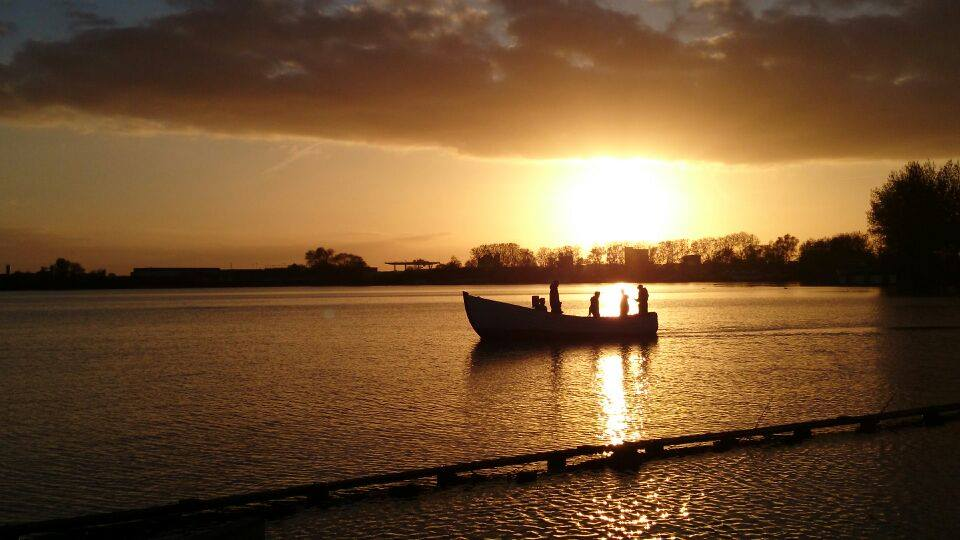
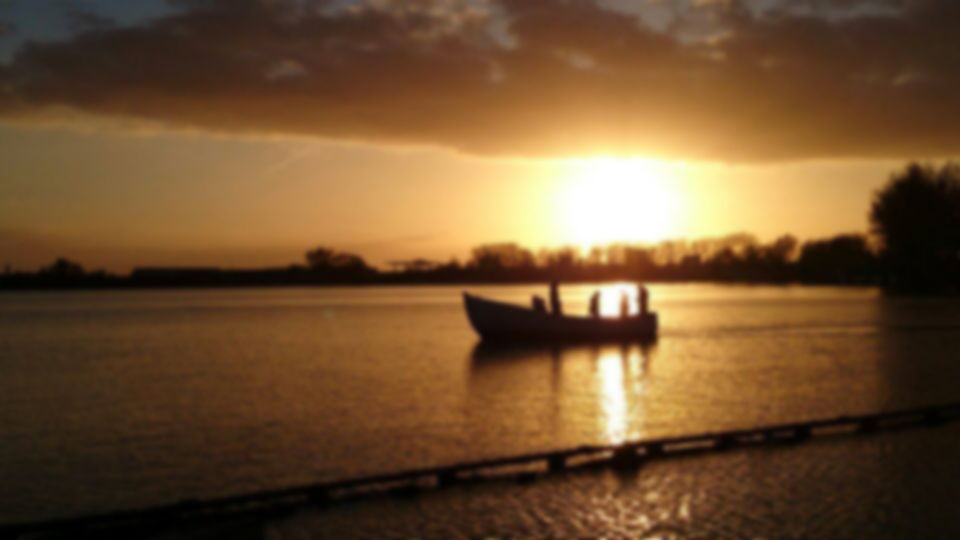
Fix background issues once and for all.

diff --git a/assets/js/news.js b/assets/js/news.js
@@ -87,6 +87,7 @@ $(".news").on("click", ".news-item", function() {
 });
 
 function expandNewsItem(post_id) {
+  window.scrollTo(0,0);
   var item = news[post_id];
   var arr = item.date.split(/[-T:+]/);
   var date = new Date(arr[0], arr[1]-1, arr[2]);
@@ -137,7 +138,7 @@ $(".expanded-news").on("click", ".news-close", function() {
 
 /* Apply special scrollbar only to desktops without touch. */
 if (!is_touch_device()) {
-  $("head").append('\
+  /*$("head").append('\
   <style>\
     ::-webkit-scrollbar {\
       width: 12px;\
@@ -147,15 +148,15 @@ if (!is_touch_device()) {
       background-color: #ff8b00;\
     }\
   </style>\
-  ');
+  ');*/
 }
 
 /* Horizontal scrolling for desktop. */
 $.getScript("/../assets/js/jquery.mousewheel.min.js", function() {
-  $(".news > .row").mousewheel(function(event, delta) {
+  /*$(".news > .row").mousewheel(function(event, delta) {
     if (!is_touch_device() && !(navigator.platform.toUpperCase().indexOf('MAC')>=0)) {
       this.scrollLeft -= (delta * 30);
       event.preventDefault();
     }
-  });
+  });*/
 });

diff --git a/_sass/theme.scss b/_sass/theme.scss
@@ -23,7 +23,7 @@ html, body {
 }
 
 body {
-  background-color: $background-color;
+  /*background-color: $background-color;*/
   position: relative;
   width: 100%;
 }
@@ -99,17 +99,8 @@ ul.dropdown-menu {
 }
 
 /* Background. */
-section#background {
-  position: absolute;
-  left: 0;
-  z-index: -1;
-  min-width: 100%;
-  min-height: 100%;
-  -webkit-filter: blur(5px);
-  -moz-filter: blur(5px);
-  -o-filter: blur(5px);
-  -ms-filter: blur(5px);
-  filter: blur(5px);
+html {
+  background-color: $brand-dark;
   background: url("../img/bg/main.jpg") no-repeat center center fixed;
   background-size: cover;
 }
@@ -293,13 +284,14 @@ section#background {
 }
 
 .expanded-news {
-  position: fixed;
+  position: absolute;
   top: 0;
   width: 100%;
-  height: 110%;
+  height: 100%;
   background-color: $brand-dark;
-  z-index: 9999;
+  z-index: 999999;
   overflow-y: scroll;
+  -webkit-overflow-scrolling: touch;
   font-family: "Raleway", "Open Sans", "Helvetica Neue", Helvetica, Arial, sans-serif;
 }
 

diff --git a/assets/js/backgrounds.js b/assets/js/backgrounds.js
@@ -5,12 +5,12 @@ $.getJSON("{{ site.domain }}/assets/js/backgrounds.json", function(data, textSta
   $.each(data, function(speltak, images) {
     if (location.href.indexOf(speltak) > -1  && images.length > 0) {
       var image = images[ Math.round(Math.random() * (images.length - 1)) ];
-      $("section#background").attr("style", "background-image: url('{{ site.domain }}/assets/img/bg/"+image+"');");
+      $("html").attr("style", "background-image: url('{{ site.domain }}/assets/img/bg/"+image+"');");
       return;
     }
   });
-  var bgstyle = $("section#background").attr("style");
+  var bgstyle = $("html").attr("style");
   if (typeof bgstyle === typeof undefined || bgstyle === false) {
-    $("section#background").attr("style", "background-image: url('{{ site.domain }}/assets/img/bg/main.jpg');");
+    $("html").attr("style", "background-image: url('{{ site.domain }}/assets/img/bg/main.jpg');");
   }
 });

diff --git a/_layouts/default.html b/_layouts/default.html
@@ -10,7 +10,7 @@
       {% include head.html %}
     </head>
     <body>
-      <section id="background"></section>
+      <!--//<section id="background"></section>//-->
       <section id="content">
         {% if page.category != 'index' %}
         <div class="row header">
